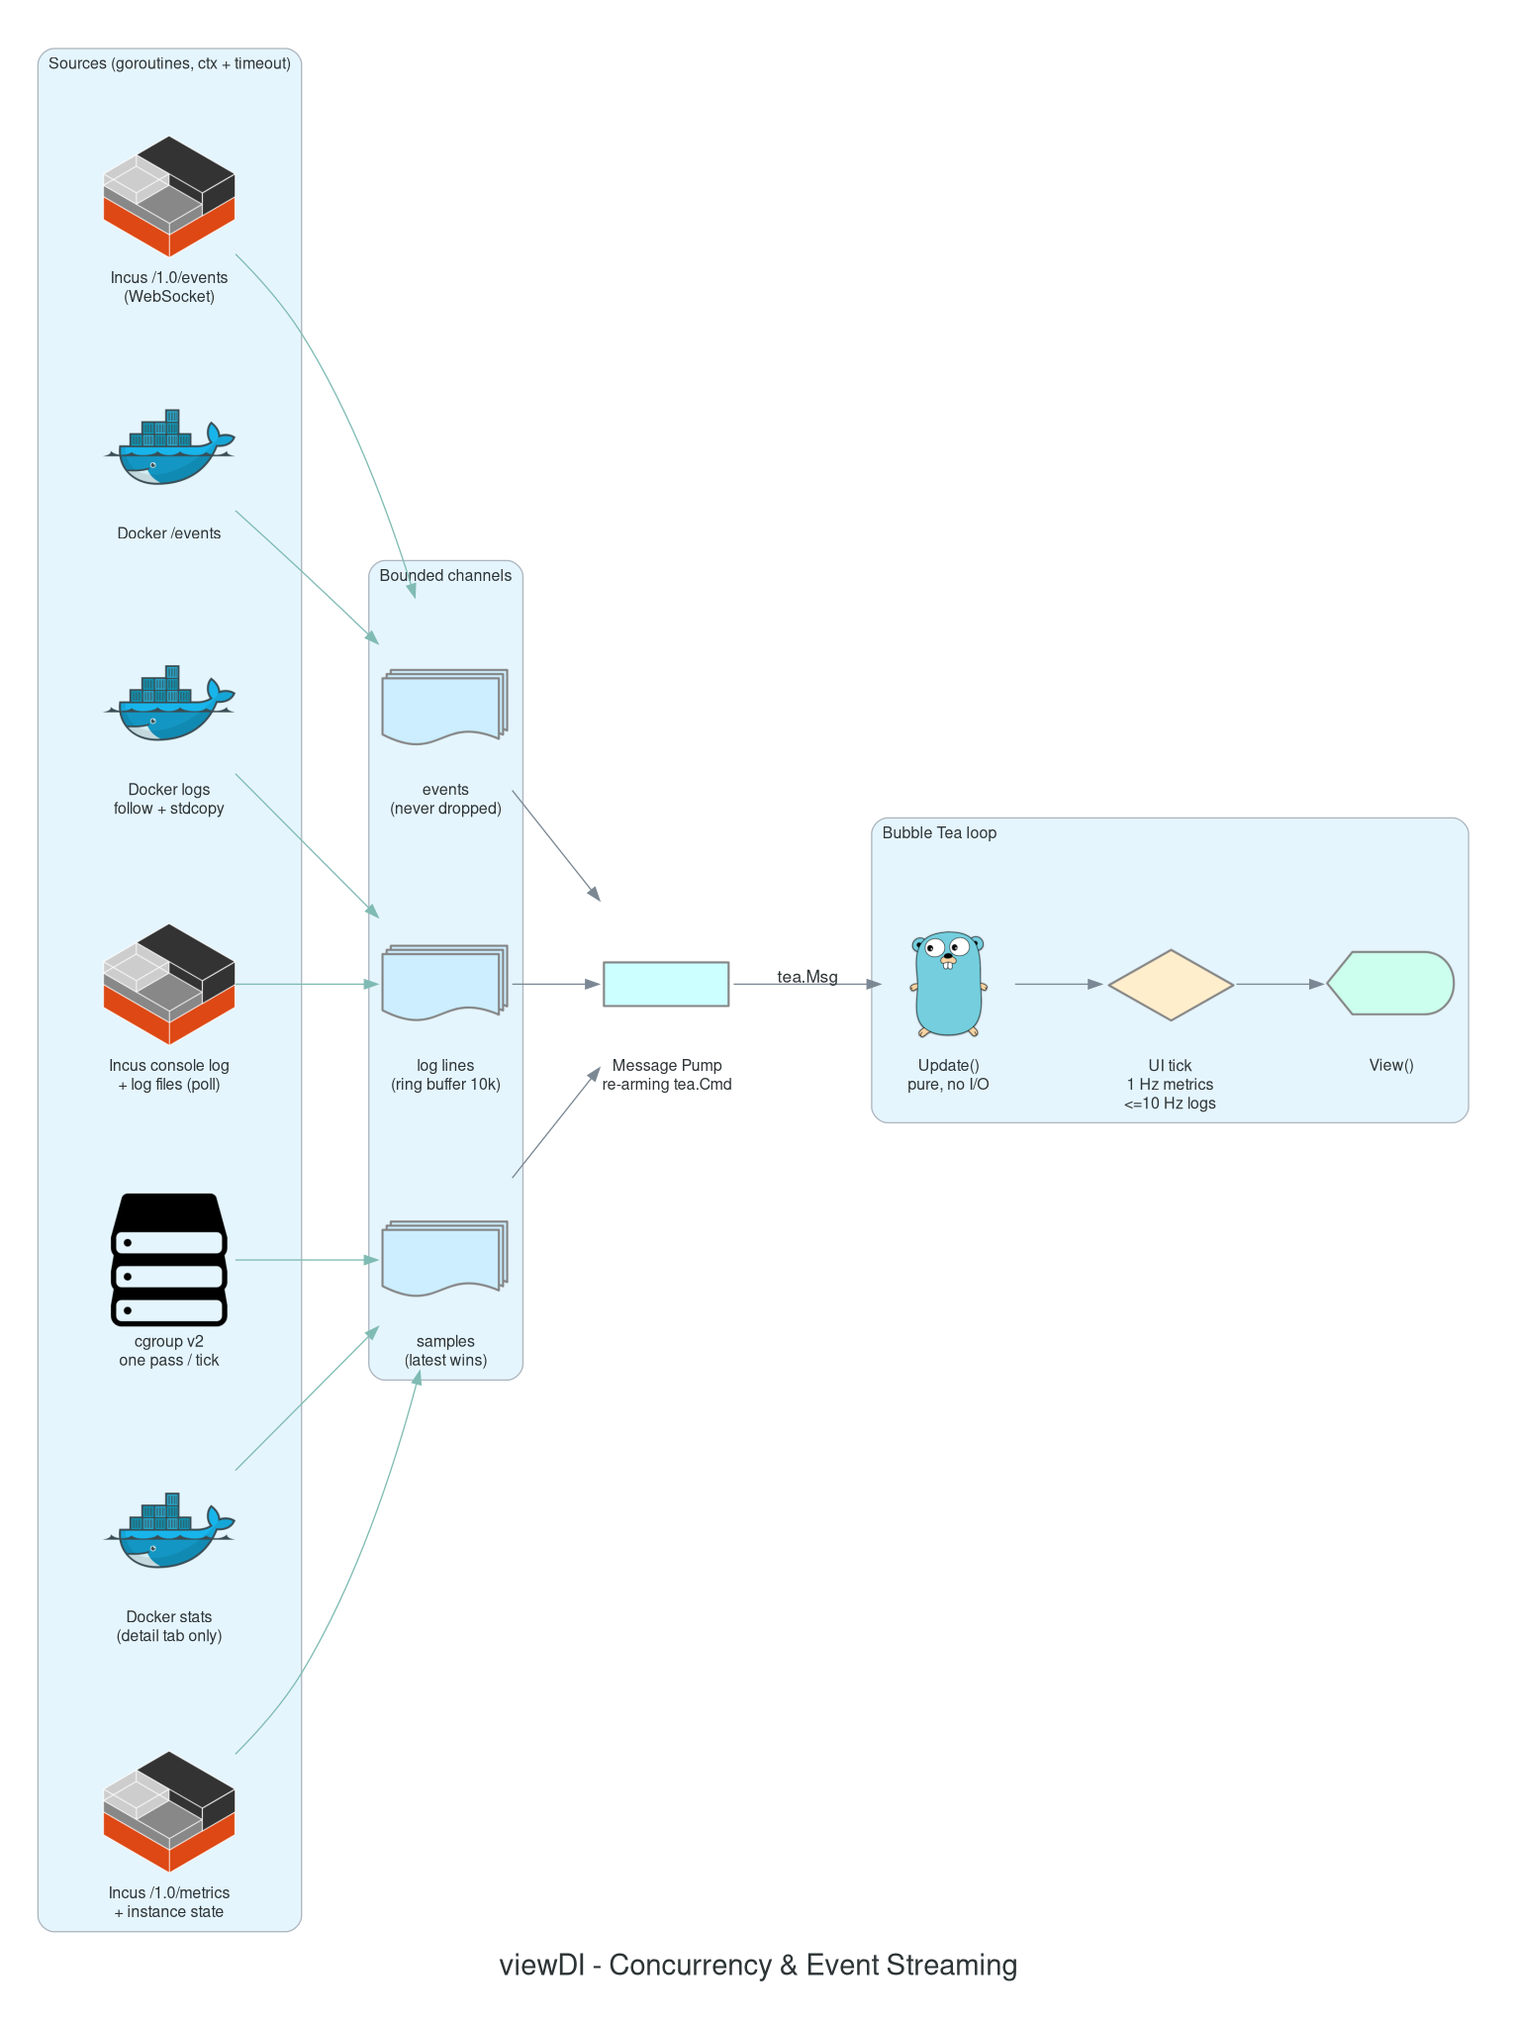
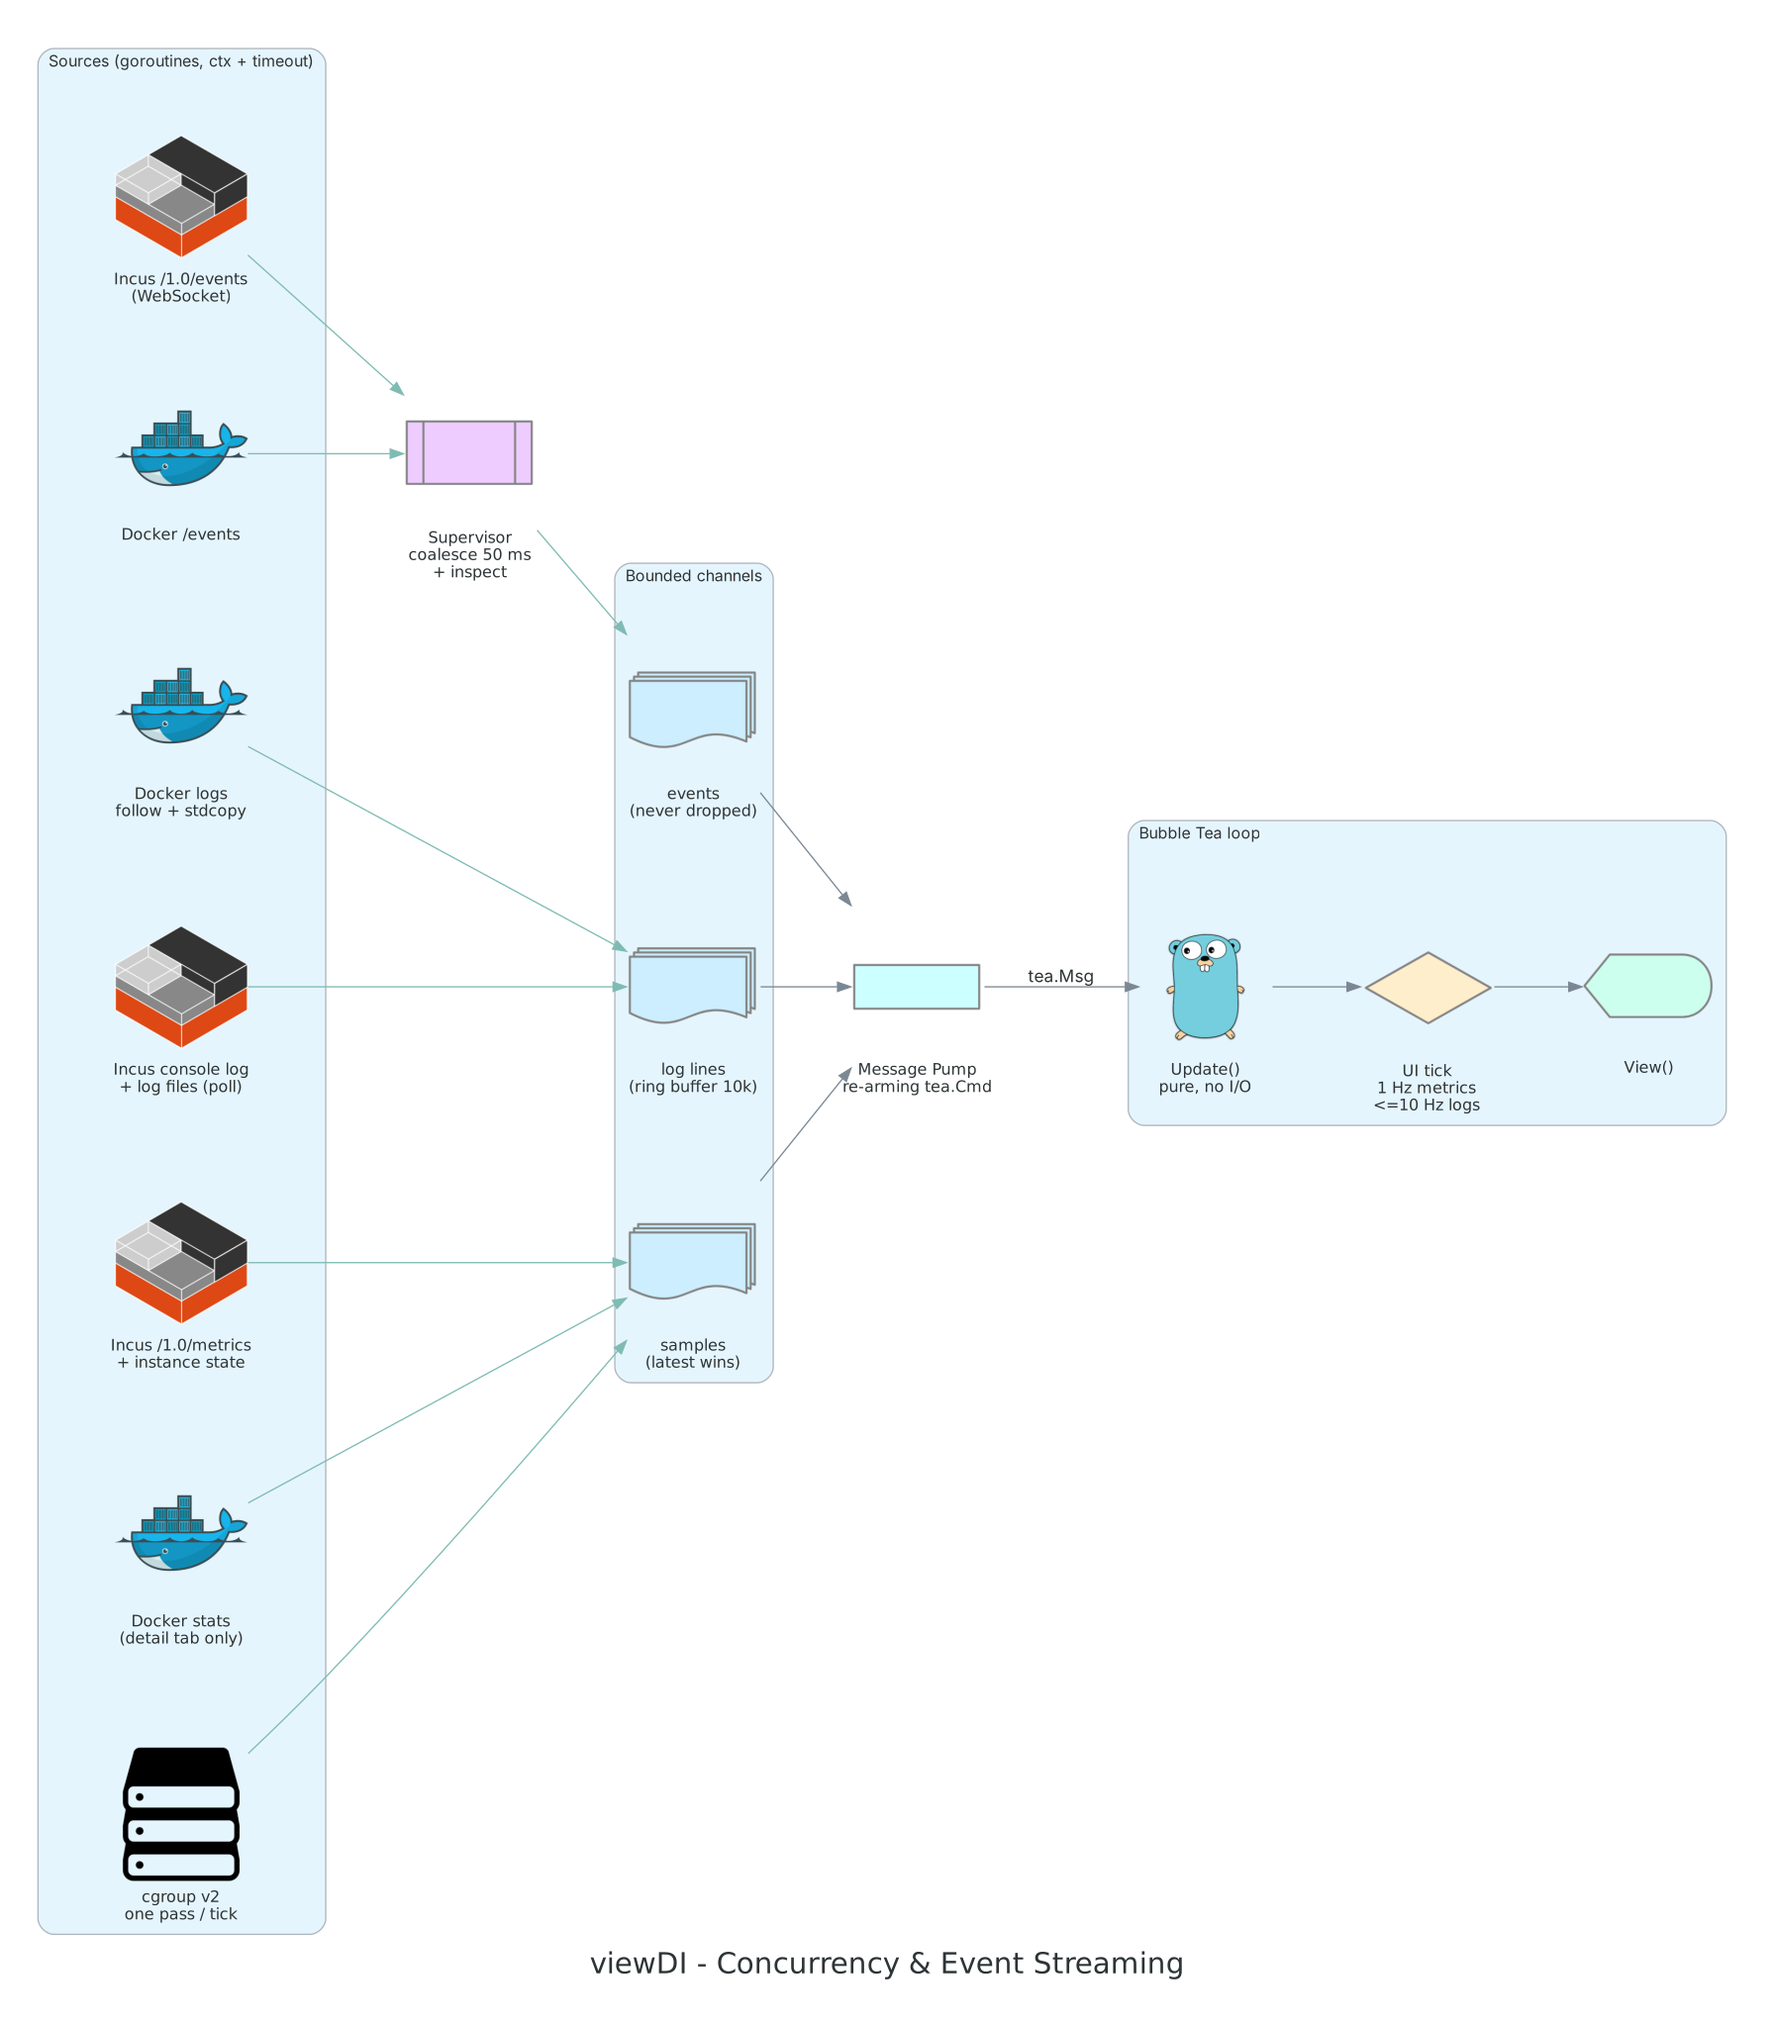
docs: Stage 1 delivered notes, diagrams and demo tape
Architecture and concurrency diagrams show the supervisor between the
adapters and the pump; README and CLAUDE.md describe discovery, the new
config sections, the fixtures tooling and packages.

diff --git a/docs/diagrams/generate.py b/docs/diagrams/generate.py
@@ -84,8 +84,8 @@ def architecture() -> None:
             selectors = Action("Selectors")
 
         with Cluster("Data provider layer"):
-            registry = PredefinedProcess("Engine Registry")
-            supervisor = PredefinedProcess("Supervisor\nhealth + backoff")
+            registry = PredefinedProcess("Engine Registry\n(supervisor group)")
+            supervisor = PredefinedProcess("Supervisor per engine\nstate machine, backoff,\nevent coalescing, resync")
             metrics = PredefinedProcess("Metrics\nAggregator")
             jobs = PredefinedProcess("Job Runner")
             updates = PredefinedProcess("Update Checker")
@@ -112,12 +112,13 @@ def architecture() -> None:
         app >> Edge(label="intents", color=CONTROL) >> jobs
         app >> Edge(label="subscribe", color=CONTROL) >> registry
 
-        registry >> [docker_ad, incus_ad, fake_ad]
-        supervisor >> Edge(style="dashed", color=MUTED) >> [docker_ad, incus_ad]
+        registry >> supervisor
+        supervisor >> Edge(label="ping, list, inspect", style="dashed", color=MUTED) >> [docker_ad, incus_ad, fake_ad]
+        [docker_ad, incus_ad, fake_ad] >> Edge(label="events", color=DATA) >> supervisor
         metrics >> cgroup
         updates >> Edge(style="dashed", color=MUTED) >> upstream
 
-        [docker_ad, incus_ad, fake_ad, metrics, jobs, updates] >> Edge(color=DATA) >> pump
+        [supervisor, metrics, jobs, updates] >> Edge(label="store changes", color=DATA) >> pump
         pump >> Edge(label="tea.Msg", color=DATA) >> store
 
         docker_ad >> dockerd
@@ -148,7 +149,8 @@ def concurrency() -> None:
             tick = Decision("UI tick\n1 Hz metrics\n<=10 Hz logs")
             view = Display("View()")
 
-        [d_events, i_events] >> Edge(color=DATA) >> ev_ch
+        sup = PredefinedProcess("Supervisor\ncoalesce 50 ms\n+ inspect")
+        [d_events, i_events] >> Edge(color=DATA) >> sup >> Edge(color=DATA) >> ev_ch
         [d_stats, i_metrics, cg] >> Edge(color=DATA) >> mx_ch
         [d_logs, i_logs] >> Edge(color=DATA) >> log_ch
         [ev_ch, mx_ch, log_ch] >> pump >> Edge(label="tea.Msg") >> update
@@ -166,7 +168,7 @@ def supervisor() -> None:
         backoff = Decision("backoff\n1s,2s,4s..30s\n+ jitter")
 
         start >> connecting
-        connecting >> Edge(label="ping ok", color=OK) >> connected
+        connecting >> Edge(label="ping + subscribe\n+ full list", color=OK) >> connected
         connected >> Edge(
             label="transient: ECONNREFUSED,\nENOENT, timeout, EOF", color=ERROR
         ) >> degraded

diff --git a/README.md b/README.md
@@ -3,8 +3,9 @@
 A native Linux terminal UI that manages, visualises and monitors **Docker** and **Incus**
 side by side.
 
-> Status: **Stage 0** — the application shell (layout, keyboard navigation, themes,
-> config). Engines arrive in Stage 1. See `docs/04-development-plan.md`.
+> Status: **Stage 1** — both engines connected (read-only): a sortable, filterable
+> Table view of every container and VM, live engine status, reconnect banner and fix
+> hints. Metrics arrive in Stage 2. See `docs/04-development-plan.md`.
 
 ![Stage 0 demo](docs/demos/stage-0.gif)
 
@@ -19,16 +20,23 @@ make mock           # run with fake engines, no daemons needed
 ```
 
 Keys: `1`–`6` switch views, `tab` cycles panes, `T` opens the theme picker (live preview),
-`?` shows every binding, `q` quits. The full key map is in `docs/03-mockups.md`.
+`?` shows every binding, `q` quits. In the Table view (`3`): `/` filter, `e` engine
+filter, `o`/`O` sort, `P` Incus project, `ctrl+r` reconnect. The full key map is in
+`docs/03-mockups.md`. `--mock=chaos` cycles through daemon failures.
+
+Daemons are discovered automatically (`--docker-host`/`DOCKER_HOST`, rootless then
+rootful Docker; `--incus-socket`/`INCUS_SOCKET`, then `unix.socket`, then
+`unix.socket.user`). Your user needs the `docker` and `incus-admin` (or `incus`) groups;
+otherwise viewDI shows the exact fix.
 
 ## Configuration
 
 | File | Purpose |
 |---|---|
-| `~/.config/viewDI/config.toml` | settings (`[ui]`, `[updates]`), never rewritten by the app |
+| `~/.config/viewDI/config.toml` | settings (`[ui]`, `[docker] host`, `[incus] socket`, `[updates]`), never rewritten by the app |
 | `~/.config/viewDI/themes/*.toml` | user themes; same name overrides a built-in |
 | `~/.config/viewDI/keys.toml` | key overrides, e.g. `[global]` `theme = "ctrl+t"` |
-| `~/.local/state/viewDI/state.json` | UI state (last view, theme), written atomically |
+| `~/.local/state/viewDI/state.json` | UI state (last view, theme, table sort, Incus project), written atomically |
 
 Invalid files never stop the app: defaults are used and a warning toast explains why.
 

diff --git a/CLAUDE.md b/CLAUDE.md
@@ -62,7 +62,8 @@ viewDI/
 ├── go.mod / go.sum
 ├── Makefile
 ├── cmd/
-│   └── viewdi/             # main: flags, config load, wiring of engines + UI
+│   ├── viewdi/             # main: flags, config load, wiring of engines + UI
+│   └── fixturerec/         # records sanitised API fixtures (build tag fixturerec)
 ├── internal/
 │   ├── app/                # root model, router, global keymap, message pump
 │   ├── ui/
@@ -88,6 +89,8 @@ viewDI/
 │   ├── updates/            # engine + image update checker, sources, scheduler, notifier
 │   │                       # (package manager, GitHub releases, registry digests, D-Bus)
 │   ├── trace/              # --trace message recorder and replay
+│   ├── clock/              # injectable Clock + fake clock (no time.Sleep in tests)
+│   ├── fixtures/           # fixture server (Unix socket), recording proxy, sanitiser
 │   └── config/             # XDG paths, config.toml, state.json, validation/defaults
 ├── themes/                 # built-in theme palettes (*.toml), embedded via go:embed
 ├── docs/                   # design docs (research, architecture, mockups, ADRs)
@@ -123,6 +126,7 @@ make lint               # golangci-lint run
 make fmt                # gofumpt -w . && goimports -w .
 make cover              # go test -coverprofile=cover.out ./... && go tool cover -func=cover.out
 make docs-venv          # python3 -m venv docs/diagrams/.venv && pip install -r docs/diagrams/requirements.txt
+make fixtures ENGINE=incus  # record sanitised API fixtures from a real daemon
 make docs-diagrams      # docs/diagrams/.venv/bin/python docs/diagrams/generate.py  → docs/img/*.png
 ```
 

diff --git a/docs/04-development-plan.md b/docs/04-development-plan.md
@@ -128,6 +128,26 @@ Acceptance criteria:
 - User not in `incus-admin`/`docker` group: app starts, shows actionable hint.
 - 500 fake instances: table scroll stays within the frame-time budget.
 
+Delivered notes (2026-10-29):
+- The upstream Incus client stores the request context in the shared client value
+  (`WithContext` mutates it) and dispatches each event on its own goroutine. The adapter
+  therefore derives a fresh client per call (`UseProject` + `WithContext`) and reads the
+  events websocket itself, which keeps events in order.
+- The Docker list endpoint has no start time: uptimes come from bounded (8 concurrent),
+  cached inspect calls, invalidated by events and after 5 minutes.
+- Fixture sets for Docker API v1.52 and Incus 6.0.5 are **hand-written** from the API
+  references (`"recorded": false` in their `index.json`) because no daemon was available;
+  `make fixtures ENGINE=docker|incus` (`cmd/fixturerec`, build tag `fixturerec`) records
+  sanitised replacements through a recording proxy. The acceptance checks against real
+  daemons (`docker ps -a` + `incus list`, stopping `incusd`, group membership) remain to
+  be run manually; the same behaviour is covered with the fake engine (supervisor tests
+  and `internal/app/chaos_test.go`).
+- The scenario DSL is the Go builder only (the optional YAML form is not implemented);
+  `logflood` and `offline` reuse the homelab world until Stages 3 and 6.
+- Measured: one key press plus a full frame with 500 instances ≈ 2 ms at 120×40.
+- `internal/clock` (injectable clock with a fake) and `internal/fixtures` (fixture
+  server, recorder, sanitiser) were added to the package layout.
+
 ---
 
 ## Stage 2 — Metrics Pipeline, Resources Dashboard, Admin Dashboard

diff --git a/docs/02-architecture.md b/docs/02-architecture.md
@@ -34,7 +34,7 @@ sampling, bounded channels, timeouts, backpressure).
 ## 3. Engine Abstraction (capabilities)
 
 Each adapter implements the same capability set. Expressed here as a contract table
-(the Go interface is written in Stage 1).
+(the Go interface lives in `internal/engine`; Stage 1 implements the read-only subset).
 
 | Capability | Docker mapping | Incus mapping |
 |---|---|---|
